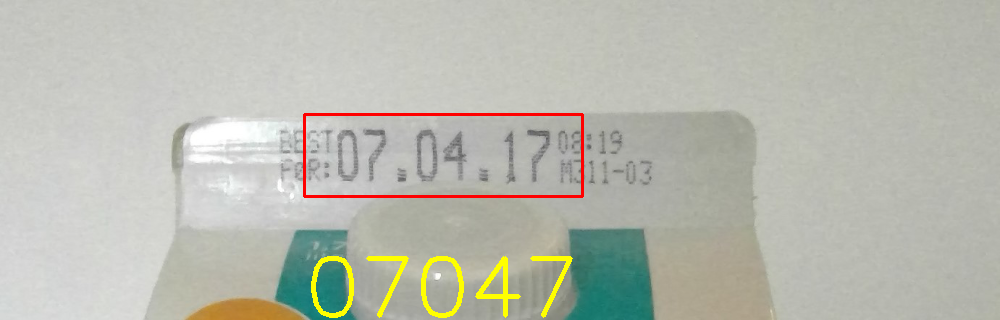
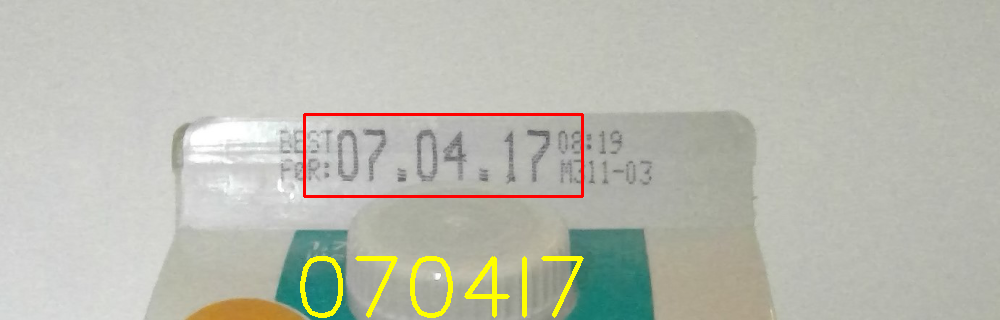
Fixed threshold

Changed region(s): [[0.279, 0.7812, 0.589, 1.0]]

diff --git a/S.L.U.M.P/S.L.U.M.P/PreProcess.h b/S.L.U.M.P/S.L.U.M.P/PreProcess.h
@@ -5,7 +5,7 @@
 #include<opencv2/imgproc/imgproc.hpp>
 
 // global variables ///////////////////////////////////////////////////////////////////////////////
-const cv::Size GAUSSIAN_SMOOTH_FILTER_SIZE = cv::Size(13, 17);
+const cv::Size GAUSSIAN_SMOOTH_FILTER_SIZE = cv::Size(11, 15);
 const int ADAPTIVE_THRESH_BLOCK_SIZE = 61;
 const int ADAPTIVE_THRESH_WEIGHT = 6;
 

diff --git a/S.L.U.M.P/S.L.U.M.P/parameters.h b/S.L.U.M.P/S.L.U.M.P/parameters.h
@@ -1,5 +1,6 @@
 #pragma once
 
+#define SHOW_STEPS            // un-comment or comment this line to show steps or not
 const cv::Scalar SCALAR_BLACK = cv::Scalar(0.0, 0.0, 0.0);
 const cv::Scalar SCALAR_WHITE = cv::Scalar(255.0, 255.0, 255.0);
 const cv::Scalar SCALAR_YELLOW = cv::Scalar(0.0, 255.0, 255.0);

diff --git a/S.L.U.M.P/S.L.U.M.P/main.cpp b/S.L.U.M.P/S.L.U.M.P/main.cpp
@@ -14,6 +14,7 @@
 void drawRedRectangleAroundDate(cv::Mat &imgOriginalScene, PossibleDate &likelyDate);
 void writeLicenseDateCharsOnImage(cv::Mat &imgOriginalScene, PossibleDate &likelyDate);
 
+
 int main() {
 
 	bool blnKNNTrainingSuccessful = loadKNNDataAndTrainKNN();           // attempt KNN training

diff --git a/S.L.U.M.P/S.L.U.M.P/DetectChars.h b/S.L.U.M.P/S.L.U.M.P/DetectChars.h
@@ -15,7 +15,7 @@
 const int MIN_PIXEL_WIDTH = 2;
 const int MIN_PIXEL_HEIGHT = 8;
 
-const double MIN_ASPECT_RATIO = 0.25;
+const double MIN_ASPECT_RATIO = 0.2;
 const double MAX_ASPECT_RATIO = 1.0;
 
 const int MIN_PIXEL_AREA = 80;
